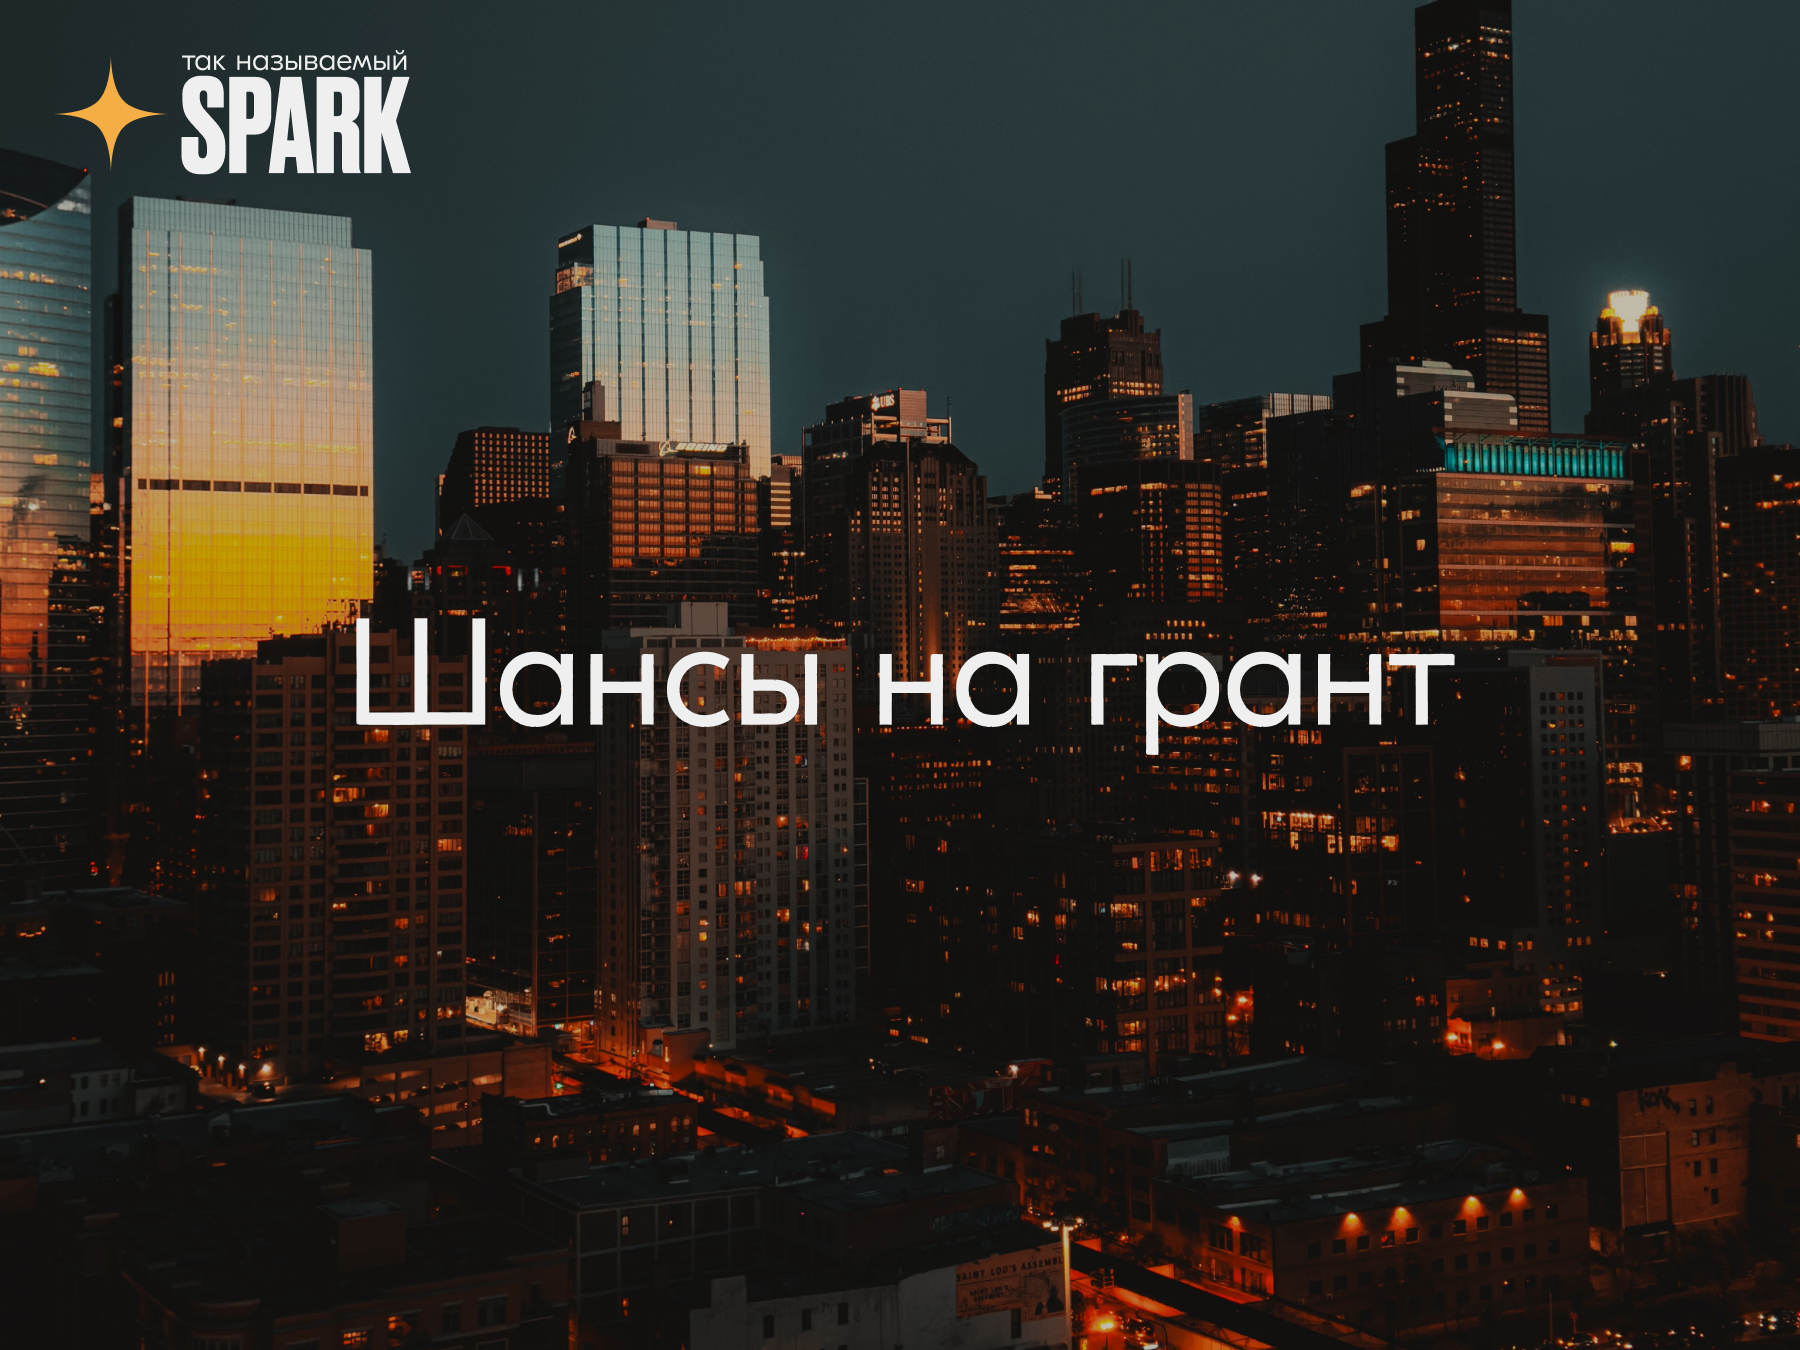
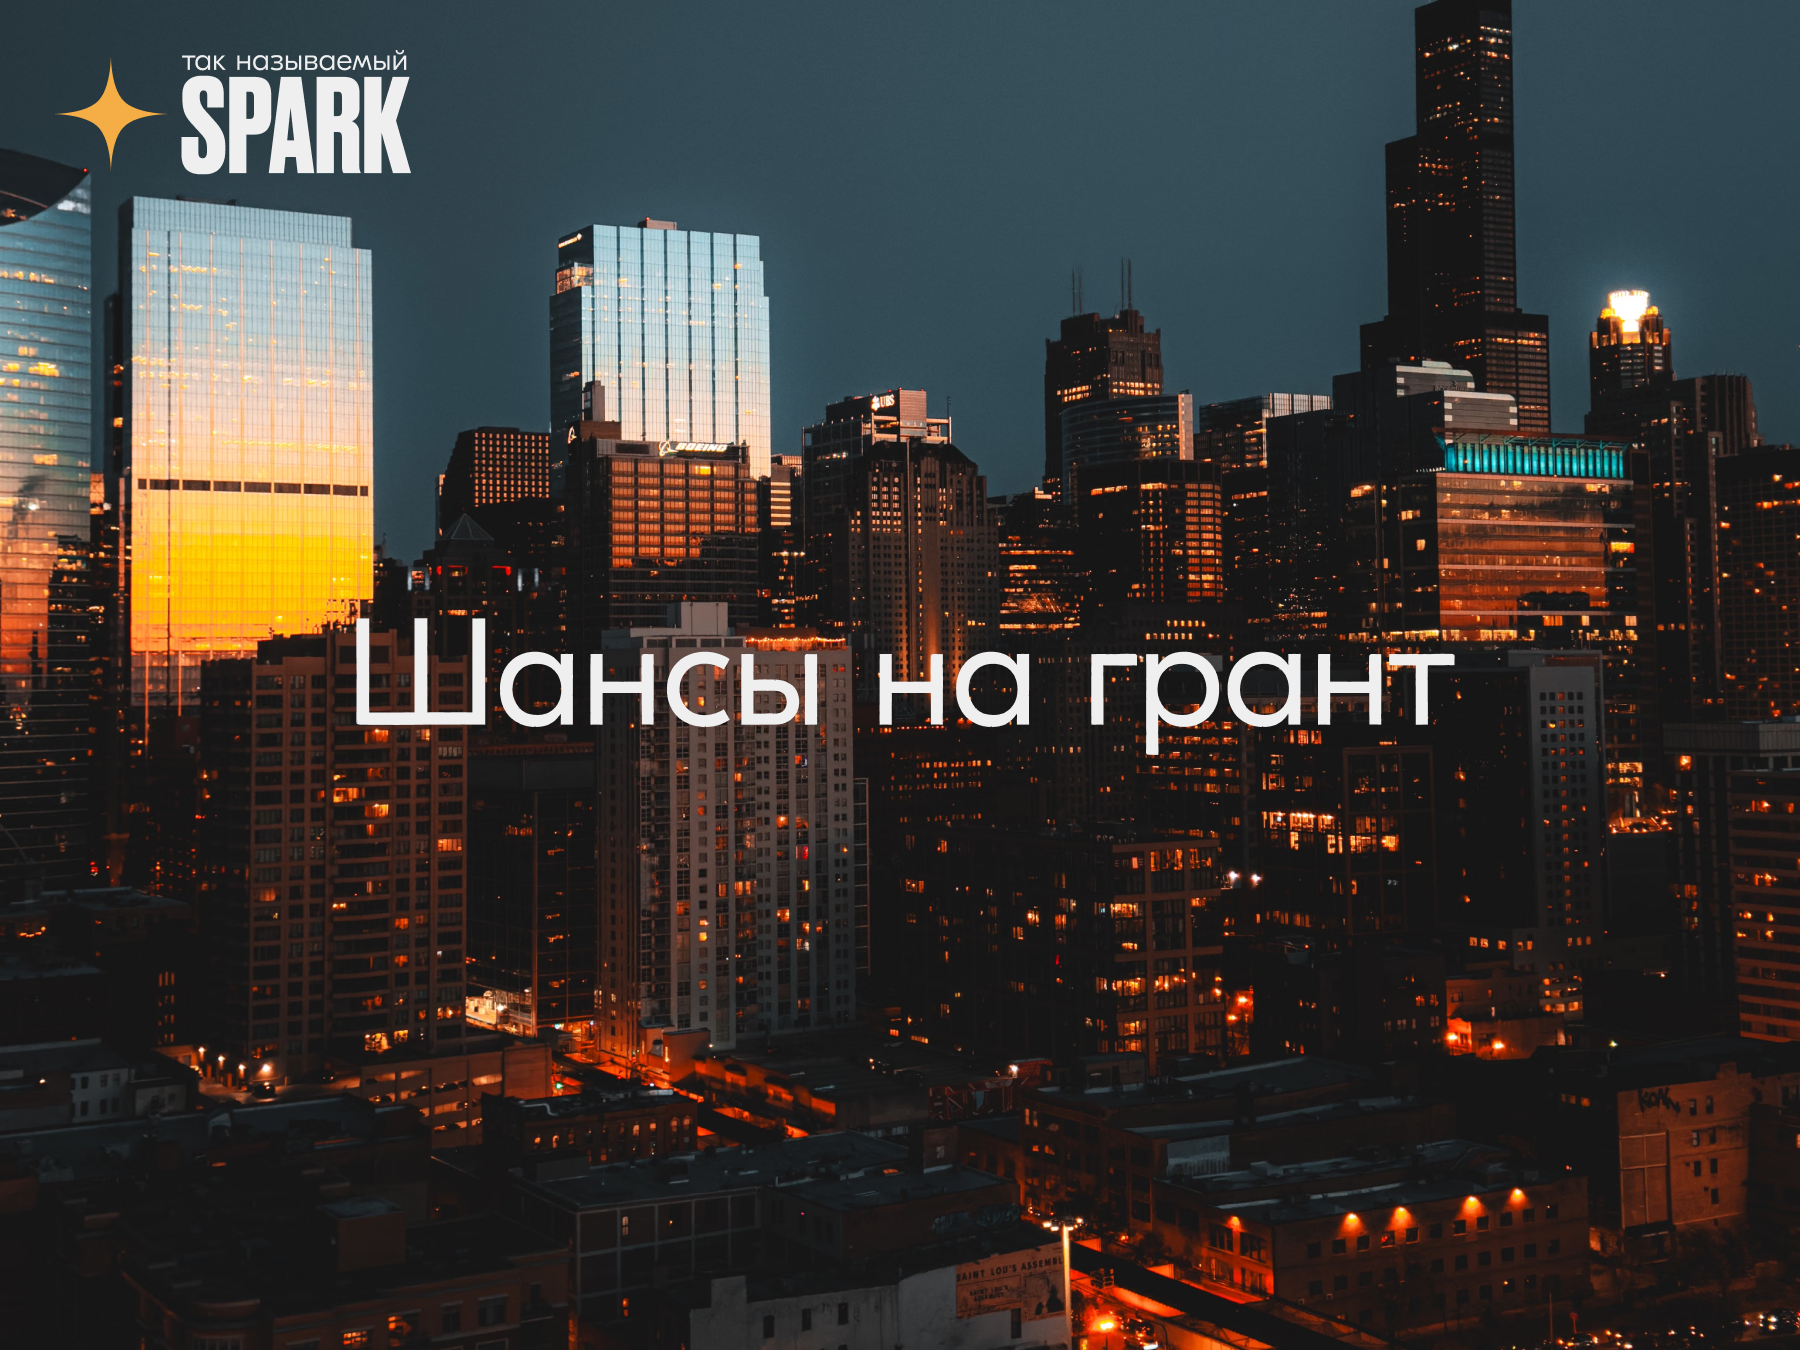
feat(bot): connect all new rich media cards (calc-result, promo-applied, status-granted)

diff --git a/backend/internal/bot/bot.go b/backend/internal/bot/bot.go
@@ -409,7 +409,12 @@ func (s *BotService) sendPaymentDetails(chatID telego.ChatID, from *telego.User,
 		keyboard = PaymentKeyboard()
 	}
 
-	photoFile := s.ResolvePhotoFile(MediaBuyCourse)
+	targetMedia := MediaBuyCourse
+	if withPromo || session.DiscountPct > 0 {
+		targetMedia = MediaPromoApplied
+	}
+
+	photoFile := s.ResolvePhotoFile(targetMedia)
 	photoMsg := tu.Photo(chatID, photoFile).
 		WithCaption(text).
 		WithParseMode(telego.ModeHTML).
@@ -417,10 +422,15 @@ func (s *BotService) sendPaymentDetails(chatID telego.ChatID, from *telego.User,
 
 	sentMsg, err := s.bot.SendPhoto(photoMsg)
 	if err == nil && sentMsg != nil {
-		s.CacheSentPhoto(MediaBuyCourse, sentMsg)
+		s.CacheSentPhoto(targetMedia, sentMsg)
 	} else if err != nil {
-		m := tu.Message(chatID, text).WithParseMode(telego.ModeHTML).WithReplyMarkup(keyboard)
-		_, _ = s.bot.SendMessage(m)
+		log.Printf("[Bot Error] sendPaymentDetails SendPhoto failed: %v. Sending fallback...", err)
+		cleanText := StripTgEmoji(text)
+		m := tu.Message(chatID, cleanText).WithParseMode(telego.ModeHTML).WithReplyMarkup(keyboard)
+		if _, textErr := s.bot.SendMessage(m); textErr != nil {
+			plainMsg := tu.Message(chatID, cleanText).WithReplyMarkup(keyboard)
+			_, _ = s.bot.SendMessage(plainMsg)
+		}
 	}
 }
 
@@ -486,8 +496,21 @@ func (s *BotService) sendStatusMessage(chatID telego.ChatID, from *telego.User) 
 Ваша ссылка в закрытый канал потока:
 %s`, inviteLink)
 		btnChannel := tu.InlineKeyboardButton("Открыть закрытый канал 🚀").WithURL(inviteLink)
-		m := tu.Message(chatID, reply).WithParseMode(telego.ModeHTML).WithReplyMarkup(tu.InlineKeyboard(tu.InlineKeyboardRow(btnChannel)))
-		_, _ = s.bot.SendMessage(m)
+		kb := tu.InlineKeyboard(tu.InlineKeyboardRow(btnChannel))
+
+		photoFile := s.ResolvePhotoFile(MediaStatusGranted)
+		photoMsg := tu.Photo(chatID, photoFile).
+			WithCaption(reply).
+			WithParseMode(telego.ModeHTML).
+			WithReplyMarkup(kb)
+
+		sentMsg, err := s.bot.SendPhoto(photoMsg)
+		if err == nil && sentMsg != nil {
+			s.CacheSentPhoto(MediaStatusGranted, sentMsg)
+		} else {
+			m := tu.Message(chatID, reply).WithParseMode(telego.ModeHTML).WithReplyMarkup(kb)
+			_, _ = s.bot.SendMessage(m)
+		}
 		return
 	}
 
@@ -726,8 +749,22 @@ func (s *BotService) processReceiptApproval(query *telego.CallbackQuery, idStr s
 <i>Ссылка является персональной и одноразовой.</i>`, inviteLink)
 
 	btnChannel := tu.InlineKeyboardButton("Войти в закрытый канал ➔").WithURL(inviteLink)
-	m := tu.Message(tu.ID(receipt.TelegramID), studentMsg).WithParseMode(telego.ModeHTML).WithReplyMarkup(tu.InlineKeyboard(tu.InlineKeyboardRow(btnChannel)))
-	_, _ = s.bot.SendMessage(m)
+	kb := tu.InlineKeyboard(tu.InlineKeyboardRow(btnChannel))
+
+	studentChatID := tu.ID(receipt.TelegramID)
+	photoFile := s.ResolvePhotoFile(MediaStatusGranted)
+	photoMsg := tu.Photo(studentChatID, photoFile).
+		WithCaption(studentMsg).
+		WithParseMode(telego.ModeHTML).
+		WithReplyMarkup(kb)
+
+	sentMsg, err := s.bot.SendPhoto(photoMsg)
+	if err == nil && sentMsg != nil {
+		s.CacheSentPhoto(MediaStatusGranted, sentMsg)
+	} else {
+		m := tu.Message(studentChatID, studentMsg).WithParseMode(telego.ModeHTML).WithReplyMarkup(kb)
+		_, _ = s.bot.SendMessage(m)
+	}
 
 	_ = s.bot.AnswerCallbackQuery(&telego.AnswerCallbackQueryParams{
 		CallbackQueryID: query.ID,

diff --git a/backend/internal/bot/calculator.go b/backend/internal/bot/calculator.go
@@ -2,6 +2,7 @@ package bot
 
 import (
 	"fmt"
+	"log"
 
 	"github.com/mymmrac/telego"
 	tu "github.com/mymmrac/telego/telegoutil"
@@ -122,7 +123,7 @@ func (s *BotService) HandleCalculatorCallback(query *telego.CallbackQuery) bool 
 
 🔥 <i>Места на поток строго ограничены.</i>`, star, score, spark, langLabel, scoreZone, check)
 
-		photoFile := s.ResolvePhotoFile(MediaGrantChances)
+		photoFile := s.ResolvePhotoFile(MediaCalcResult)
 		photoMsg := tu.Photo(chatID, photoFile).
 			WithCaption(reply).
 			WithParseMode(telego.ModeHTML).
@@ -130,10 +131,15 @@ func (s *BotService) HandleCalculatorCallback(query *telego.CallbackQuery) bool 
 
 		sentMsg, err := s.bot.SendPhoto(photoMsg)
 		if err == nil && sentMsg != nil {
-			s.CacheSentPhoto(MediaGrantChances, sentMsg)
+			s.CacheSentPhoto(MediaCalcResult, sentMsg)
 		} else if err != nil {
-			m := tu.Message(chatID, reply).WithParseMode(telego.ModeHTML).WithReplyMarkup(CalcResultKeyboard())
-			_, _ = s.bot.SendMessage(m)
+			log.Printf("[Bot Error] CalcResult SendPhoto failed: %v. Sending fallback...", err)
+			cleanReply := StripTgEmoji(reply)
+			m := tu.Message(chatID, cleanReply).WithParseMode(telego.ModeHTML).WithReplyMarkup(CalcResultKeyboard())
+			if _, textErr := s.bot.SendMessage(m); textErr != nil {
+				plainMsg := tu.Message(chatID, cleanReply).WithReplyMarkup(CalcResultKeyboard())
+				_, _ = s.bot.SendMessage(plainMsg)
+			}
 		}
 		return true
 	}

diff --git a/backend/internal/bot/media_cache.go b/backend/internal/bot/media_cache.go
@@ -15,6 +15,9 @@ const (
 	MediaMainBanner    = "bot-main.png"
 	MediaGrantChances  = "bot-grant-chances.png"
 	MediaBuyCourse     = "bot-buy-course.png"
+	MediaCalcResult    = "bot-calc-result.png"
+	MediaPromoApplied  = "bot-promo-applied.png"
+	MediaStatusGranted = "bot-status-granted.png"
 )
 
 // MediaCache holds resolved Telegram file IDs in memory and disk/db.
